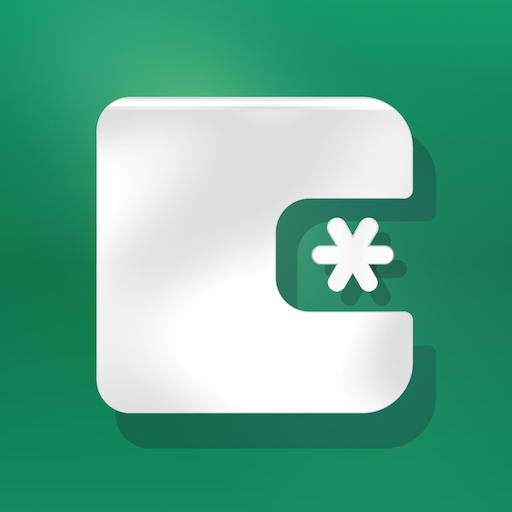
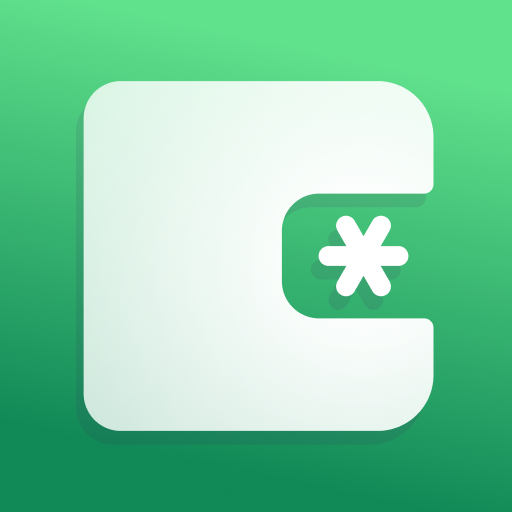
mobile: update brand

diff --git a/apps/daimo-mobile/src/view/shared/image.ts b/apps/daimo-mobile/src/view/shared/image.ts
@@ -1,6 +1,6 @@
 const image = {
   qrLogo:
[2 lines of base64/hex data omitted]
   qrLogoFarcaster:
[1 lines of base64/hex data omitted]
   iconFarcaster:

diff --git a/apps/daimo-mobile/app.config.js b/apps/daimo-mobile/app.config.js
@@ -11,9 +11,9 @@ export default {
   icon: "./assets/icon.png",
   userInterfaceStyle: "light",
   splash: {
-    image: "./assets/splash.png",
+    image: "./assets/splash-screen.png",
     resizeMode: "cover",
-    backgroundColor: "#14B174",
+    backgroundColor: "#13915F",
   },
   assetBundlePatterns: ["assets/*"],
   scheme: "daimo",
@@ -47,6 +47,15 @@ export default {
     },
   },
   android: {
+    package: IS_DEV ? "com.daimo.dev" : "com.daimo",
+    icon: "./assets/icon-circle.png",
+    backgroundColor: "#ffffff",
+    adaptiveIcon: {
+      foregroundImage: "./assets/ic_launcher.svg",
+      backgroundColor: "#13915F",
+      backgroundImage: "./assets/ic_launcher_background.svg",
+    },
+    softwareKeyboardLayoutMode: "pan",
     googleServicesFile: IS_DEV
       ? "./google-services-dev.json"
       : "./google-services.json",
@@ -88,13 +97,6 @@ export default {
         category: ["BROWSABLE", "DEFAULT"],
       },
     ],
-    adaptiveIcon: {
-      foregroundImage: "./assets/adaptive-icon.png",
-      backgroundImage: "./assets/adaptive-back.png",
-      backgroundColor: "#14B174",
-    },
-    softwareKeyboardLayoutMode: "pan",
-    package: IS_DEV ? "com.daimo.dev" : "com.daimo",
   },
   extra: {
     eas: {

diff --git a/apps/daimo-mobile/src/view/shared/style.ts b/apps/daimo-mobile/src/view/shared/style.ts
@@ -2,13 +2,13 @@ import { Platform, StyleSheet, TextStyle } from "react-native";
 
 /** Match daimo-web tailwind config. Same name = refers to the same color. */
 export const color = {
-  primary: "#14B174",
+  primary: "#13915F",
   primaryBgLight: "#CCF3D7",
   danger: "#f35369",
   warningLight: "#ffeeb3",
   yellow: "#FFDC62",
-  success: "#0CA01B",
-  successDark: "#009900",
+  success: "#14B174",
+  successDark: "#13915F",
   white: "#ffffff",
   ivoryLight: "#f9f9f9",
   ivoryDark: "#f2f2f2",

diff --git a/apps/daimo-mobile/src/view/screen/QRScreen.tsx b/apps/daimo-mobile/src/view/screen/QRScreen.tsx
@@ -128,7 +128,7 @@ export function QRCodeBox({
           color={color.midnight}
           size={192}
           logo={{ uri: logoURI }}
-          logoSize={72}
+          logoSize={64}
         />
       </View>
     </View>
